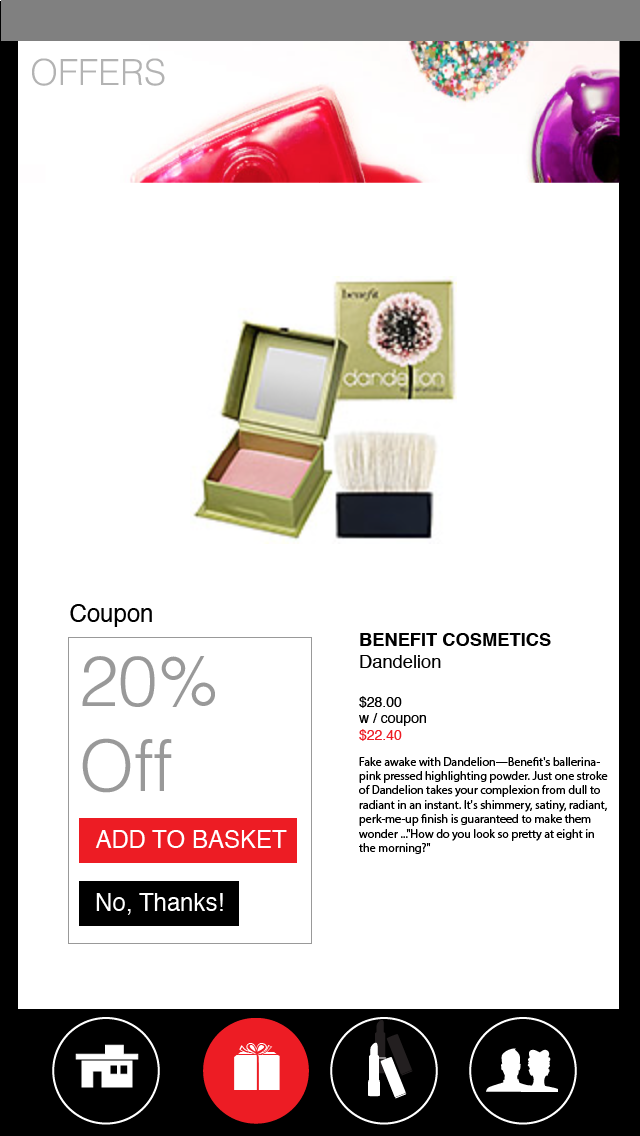
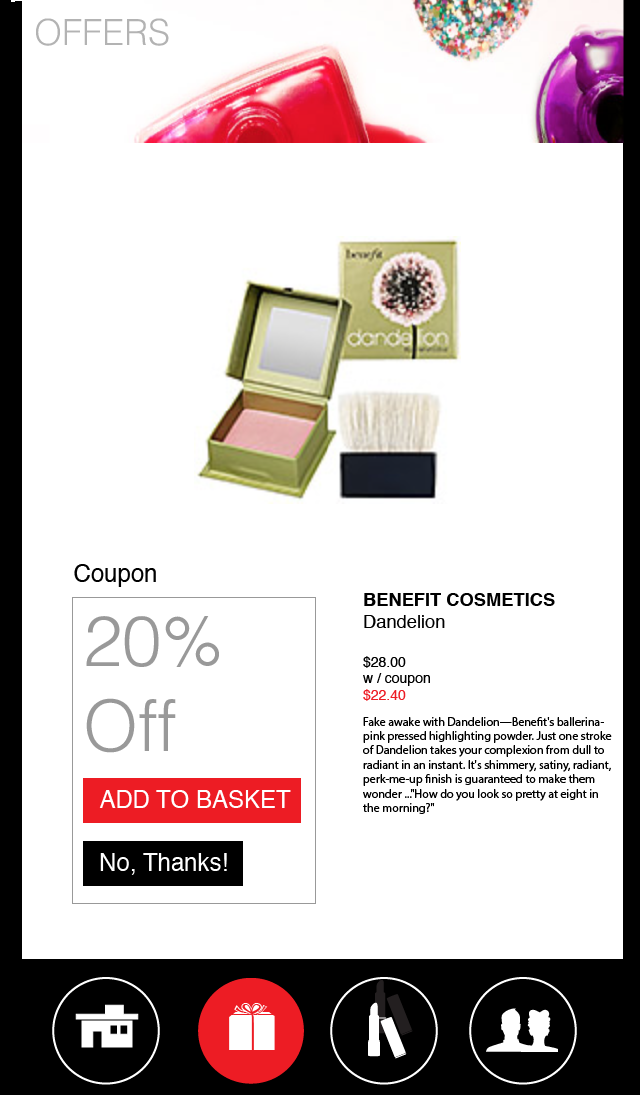
Added new route to display content for mobile

diff --git a/app/assets/stylesheets/main.scss b/app/assets/stylesheets/main.scss
@@ -2,6 +2,10 @@ body {
   padding-top: 50px;
 }
 
+body.items-embedded {
+  padding: 0;
+}
+
 .starter-template {
   padding: 40px 15px;
   text-align: center;

diff --git a/app/controllers/items_controller.rb b/app/controllers/items_controller.rb
@@ -1,5 +1,9 @@
 class ItemsController < ApplicationController
-  before_action :set_item, only: [:show, :edit, :update, :destroy]
+  layout :resolve_layout
+
+  before_action :set_item, only: [:show, :edit, :update, :destroy, :embedded]
+
+
 
   # GET /items
   def index
@@ -45,6 +49,12 @@ class ItemsController < ApplicationController
     redirect_to items_url, notice: 'Item was successfully destroyed.'
   end
 
+
+  # Get /items/1/embedded
+  # Used by mobile app to display item content
+  def embedded
+  end
+
   private
     # Use callbacks to share common setup or constraints between actions.
     def set_item
@@ -54,5 +64,15 @@ class ItemsController < ApplicationController
     # Only allow a trusted parameter "white list" through.
     def item_params
       params.require(:item).permit(:spec, :name, :description, :beacon_id, :content, :content_cache)
+    end
+
+
+    def resolve_layout
+      case action_name
+        when 'embedded'
+          'compact'
+        else
+          'application'
+      end
     end
 end

diff --git a/config/routes.rb b/config/routes.rb
@@ -6,7 +6,11 @@ IBeaconCMS::Application.routes.draw do
   resources :users
   match 'users/mobile_user', to: 'users#mobile_user', via: :post
 
-  resources :items
+  resources :items do
+    member do
+      get 'embedded'
+    end
+  end
 
   resources :beacons
   match 'beacons/content', to: 'beacons#content', via: :post
